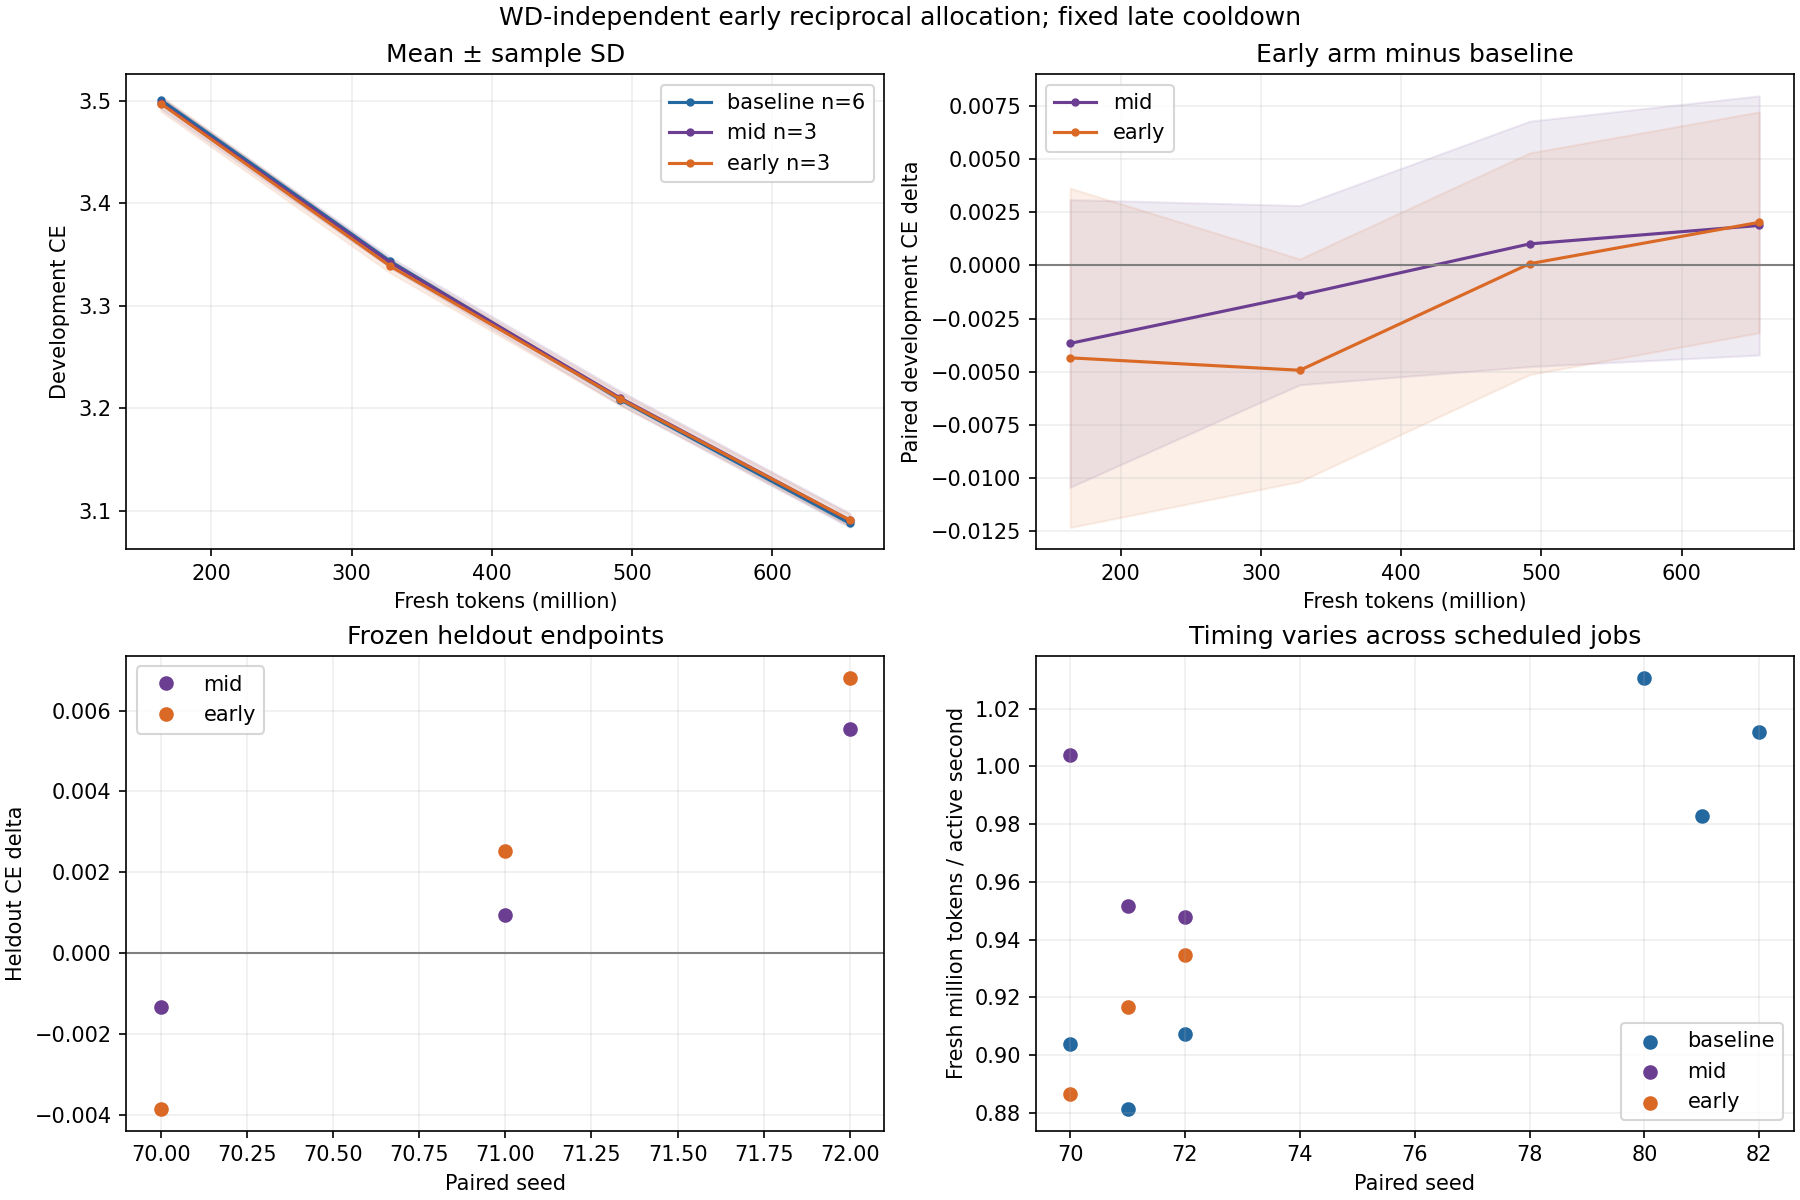
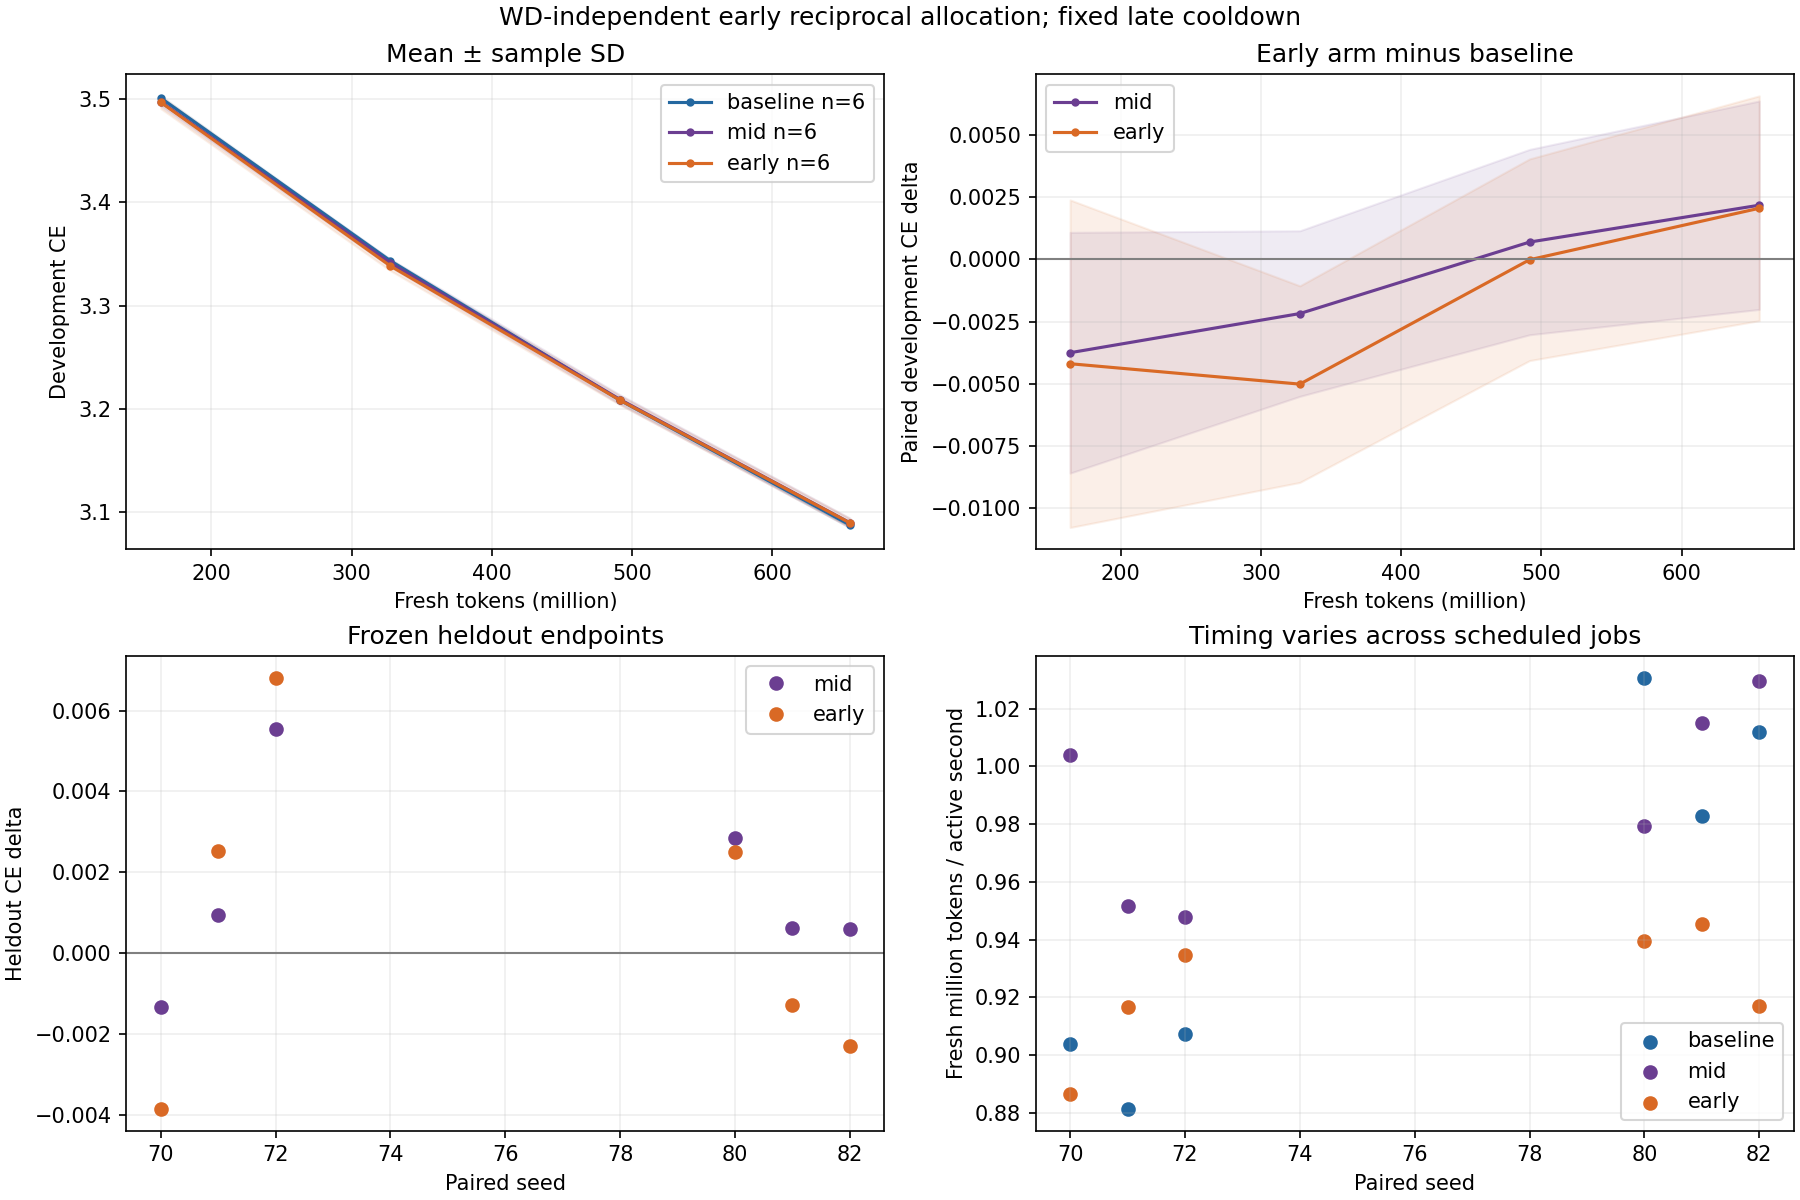
Publish complete six-seed family and freeze all30 checkpoints for larger scoring

diff --git a/research/unnormalized_muon/frozen_eval.py b/research/unnormalized_muon/frozen_eval.py
@@ -25,6 +25,8 @@ class Capture:
 def main():
     p=argparse.ArgumentParser();p.add_argument('--output',required=True);p.add_argument('--config',required=True);a=p.parse_args()
     out=pathlib.Path(a.output);cfg=json.loads(pathlib.Path(a.config).read_text());assert cfg['evaluation_only']
+    (out/'resolved_config.json').write_text(json.dumps(cfg,indent=2)+'\n')
+    assert cfg['large_start_batch']==64 and cfg['large_batches']==64
     assert torch.cuda.device_count()==1 and 'B300' in torch.cuda.get_device_name(0)
     _,_,_,world,device=compute_init('cuda');assert world==1
     names=cfg['model_run_ids'];assert len(names)==len(set(names))

diff --git a/research/unnormalized_muon/EARLY_ALLOCATION_REPLICATION.md b/research/unnormalized_muon/EARLY_ALLOCATION_REPLICATION.md
@@ -14,16 +14,26 @@ All arms use ordinary fixed WD .04593746995939655, actual join LR .005 and ident
 | 72 | mid | 3.137712240 | +0.005539656 | 691.419 | 0.9478 |
 | 72 | early | 3.138991833 | +0.006819248 | 701.115 | 0.9347 |
 | 80 | baseline | 3.127713203 | +0.000000000 | 635.789 | 1.0308 |
+| 80 | mid | 3.130561352 | +0.002848148 | 669.179 | 0.9793 |
+| 80 | early | 3.130208015 | +0.002494812 | 697.640 | 0.9394 |
 | 81 | baseline | 3.132445335 | +0.000000000 | 666.782 | 0.9829 |
+| 81 | mid | 3.133066177 | +0.000620842 | 645.593 | 1.0151 |
+| 81 | early | 3.131148815 | -0.001296520 | 693.270 | 0.9453 |
 | 82 | baseline | 3.129633188 | +0.000000000 | 647.532 | 1.0121 |
+| 82 | mid | 3.130227566 | +0.000594378 | 636.516 | 1.0296 |
+| 82 | early | 3.127330542 | -0.002302647 | 714.632 | 0.9171 |
 
 mid/initial3: n=3, mean **+0.001721CE**, sampleSD **0.003497**.
 
-mid/pooled6: n=3, mean **+0.001721CE**, sampleSD **0.003497**.
+mid/new3: n=3, mean **+0.001354CE**, sampleSD **0.001294**.
+
+mid/pooled6: n=6, mean **+0.001538CE**, sampleSD **0.002366**.
 
 early/initial3: n=3, mean **+0.001822CE**, sampleSD **0.005377**.
 
-early/pooled6: n=3, mean **+0.001822CE**, sampleSD **0.005377**.
+early/new3: n=3, mean **-0.000368CE**, sampleSD **0.002530**.
+
+early/pooled6: n=6, mean **+0.000727CE**, sampleSD **0.003945**.
 
 Negative deltas favor the early reciprocal arm. No setting is retuned from these heldout results. Static/history contraction controls have3seeds only and are reported separately. Token-matched endpoints contain the same gradient count and native optimizer pipeline. Different wall times across jobs are descriptive; no independent equal-time result is implied.125829354 trainable parameters,655360000 update-data tokens/run,5.2083tokens/parameter. Finite NS/BF16/Nesterov and these stochastic outcomes establish no deterministic FW theorem.
 
